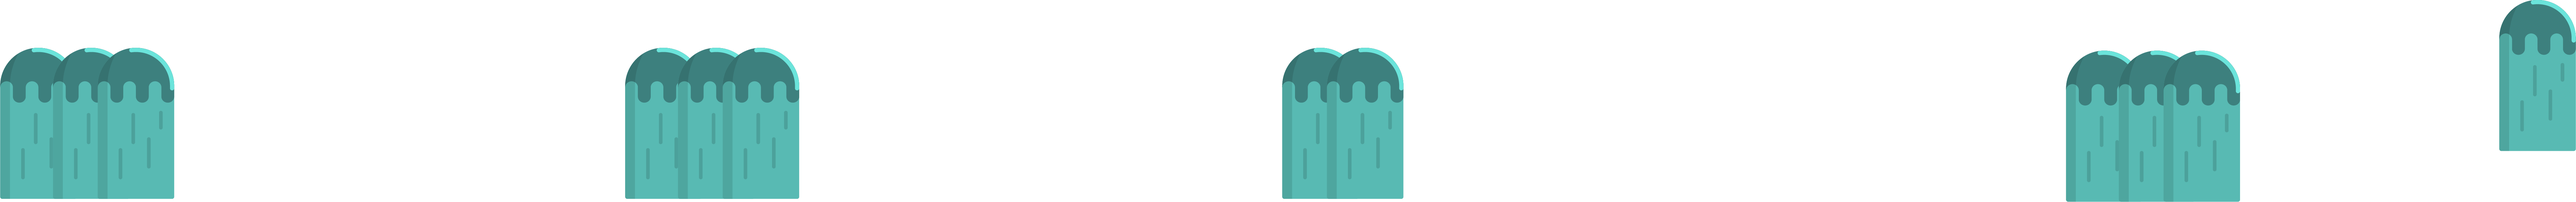
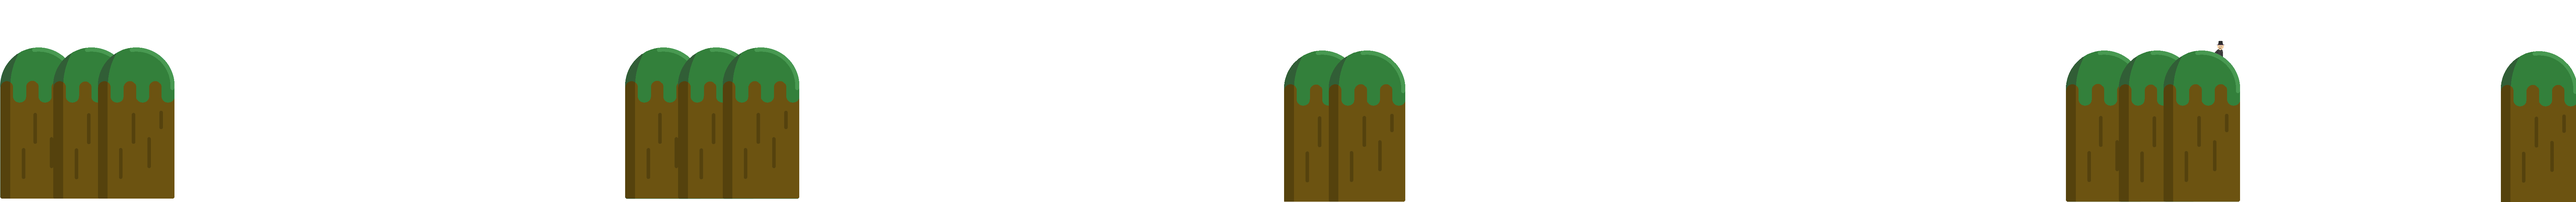
Updated graphics to fit for a pixel art style on entire game. Removed unused image files

diff --git a/public/scripts/code.js b/public/scripts/code.js
@@ -22,7 +22,7 @@ const schoolImage = new Image();
 let platformImage = new Image();
 let platformSmallTall = new Image();
 
-platformImage.src = "../images/platformPixel.png";
+platformImage.src = "../images/platformPixel2.png";
 backgroundImage.src = "../images/background.png";
 hillsImage.src = "../images/hills.png";
 schoolImage.src = "../images/glimmis.png";
@@ -113,7 +113,7 @@ let scrollOffset = 0;
 // Starta om spelet när spelaren förlorar (ramlar ner)
 function init() {
   platformImage = new Image();
-  platformImage.src = "../images/platformPixel.png";
+  platformImage.src = "../images/platformPixel2.png";
 
   // Singleplayer läge
   if (!isGameJoined) {
@@ -147,7 +147,6 @@ function init() {
       y: 170,
       image: platformSmallTall,
     }),
-
 
     // Vanliga plafformar
     new Platform({ x: -1, y: 470, image: platformImage }),
@@ -211,16 +210,16 @@ function init() {
       y: 470,
       image: platformImage,
     }),
+    // Skola på slutplatformen
+    new Platform({
+      x: platformImage.width * 14 + 3400 - 2,
+      y: -26,
+      image: schoolImage,
+    }),
     new Platform({
       x: platformImage.width * 14 + 3400 - 2,
       y: 470,
       image: platformImage,
-    }),
-    // Skola på slutplatformen
-    new Platform({
-      x: platformImage.width * 14 + 3400 - 2,
-      y: -25,
-      image: schoolImage,
     }),
   ];
 
@@ -272,6 +271,8 @@ function animate(currentTime = 0) {
   if (lastTime === 0) lastTime = currentTime;
   const deltaTime = (currentTime - lastTime) / 1000;
   lastTime = currentTime;
+
+  gameCtx.setTransform(1, 0, 0, 1, 0, 0);
 
   requestAnimationFrame(animate);
   gameCtx.clearRect(0, 0, gameCanvas.width, gameCanvas.height);

diff --git a/public/scripts/player.js b/public/scripts/player.js
@@ -55,7 +55,7 @@ class Player {
 
       this.position.x += this.velocity.x;
       this.position.y += this.velocity.y;
-      
+
       // Gravitation
       if (
         this.position.y + this.height + this.velocity.y <=

diff --git a/public/styles/styles.css b/public/styles/styles.css
@@ -19,7 +19,8 @@ body {
     display: flex;
     justify-content: center;
     align-items: center;
-    background-color: black;
+    background-color: #124552;
+
 }
 
 #chat div.textMessage {
